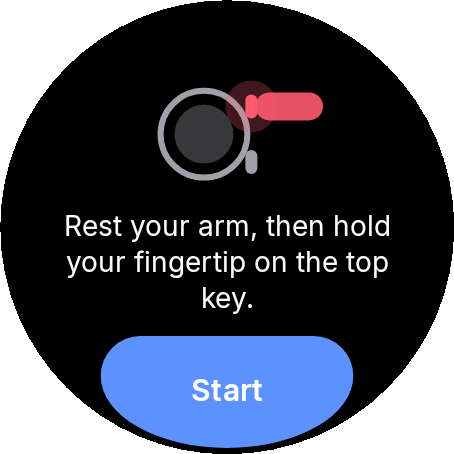
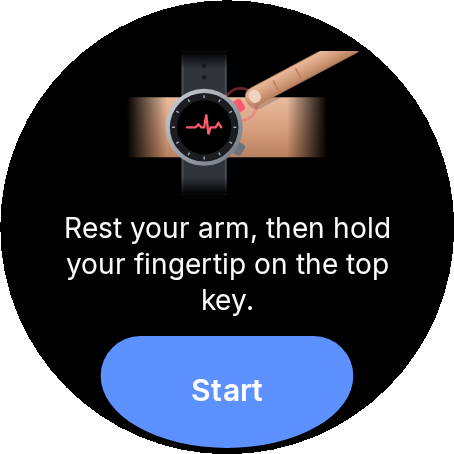
Watch: clear ECG instruction illustration (arm, watch, finger on the top key)
The old drawing was a circle and a red capsule, with no arm and no hand.
EcgKeyIllustration shows the scene from above: the forearm and strap
(fading out at the edges), the watch with steel case, bezel ticks and an
ECG trace on the screen, both side keys with the top one lit, and the
index finger of the other hand (nail, knuckle creases) resting on it
with a contact pulse. Animated: the finger rests, lifts briefly and comes
back. Sized so the instruction text fits on small and large watches.

diff --git a/wear/src/main/kotlin/com/heartline/wear/ui/components/EcgKeyIllustration.kt b/wear/src/main/kotlin/com/heartline/wear/ui/components/EcgKeyIllustration.kt
@@ -1,0 +1,148 @@
+package com.heartline.wear.ui.components
+
+import androidx.compose.animation.core.LinearEasing
+import androidx.compose.animation.core.animateFloat
+import androidx.compose.animation.core.infiniteRepeatable
+import androidx.compose.animation.core.rememberInfiniteTransition
+import androidx.compose.animation.core.tween
+import androidx.compose.foundation.Canvas
+import androidx.compose.runtime.Composable
+import androidx.compose.runtime.getValue
+import androidx.compose.ui.Modifier
+import androidx.compose.ui.geometry.CornerRadius
+import androidx.compose.ui.geometry.Offset
+import androidx.compose.ui.geometry.Size
+import androidx.compose.ui.graphics.Brush
+import androidx.compose.ui.graphics.Color
+import androidx.compose.ui.graphics.Path
+import androidx.compose.ui.graphics.StrokeCap
+import androidx.compose.ui.graphics.drawscope.DrawScope
+import androidx.compose.ui.graphics.drawscope.Stroke
+import androidx.compose.ui.graphics.drawscope.rotate
+import androidx.compose.ui.graphics.drawscope.translate
+import kotlin.math.PI
+import kotlin.math.cos
+import kotlin.math.sin
+
+/**
+ * How to take an ECG, seen from above: the watch on the left wrist and the index finger of the
+ * other hand resting on the top key (2 o'clock), which lights up with a contact pulse. Animated:
+ * the finger rests on the key, lifts off briefly and comes back. Drawn on a 140 × 100 grid.
+ */
+@Composable
+fun EcgKeyIllustration(accent: Color, modifier: Modifier = Modifier, background: Color = Color.Black, animate: Boolean = true) {
+    val t = if (animate) {
+        val transition = rememberInfiniteTransition(label = "ecgKey")
+        val v by transition.animateFloat(0f, 1f, infiniteRepeatable(tween(2_800, easing = LinearEasing)), label = "t")
+        v
+    } else {
+        0.2f
+    }
+    // 0–0.6 on the key (pulses), 0.6–0.75 lifting off, 0.75–1 coming back.
+    val lift = when {
+        t < 0.6f -> 0f
+        t < 0.75f -> (t - 0.6f) / 0.15f
+        else -> 1f - (t - 0.75f) / 0.25f
+    }
+    val onKey = lift < 0.05f
+    val pulse = if (t < 0.6f) t / 0.6f else 0f
+    Canvas(modifier) {
+        val u = minOf(size.width / 140f, size.height / 100f)
+        translate((size.width - 140f * u) / 2, (size.height - 100f * u) / 2) {
+            scene(u, accent, background, lift, onKey, pulse)
+        }
+    }
+}
+
+private val SKIN = Color(0xFFD7A07E)
+private val SKIN_SHADE = Color(0xFFB9805F)
+private val SKIN_LIGHT = Color(0xFFE8BC9E)
+private val NAIL = Color(0xFFF1D3C2)
+private val STRAP = Color(0xFF30343B)
+private val STRAP_EDGE = Color(0xFF474C55)
+private val STEEL = Color(0xFFA7ADB6)
+private val STEEL_DARK = Color(0xFF6E747D)
+private val BEZEL = Color(0xFF1B1D21)
+
+private fun DrawScope.scene(u: Float, accent: Color, background: Color, lift: Float, onKey: Boolean, pulse: Float) {
+    fun p(x: Float, y: Float) = Offset(x * u, y * u)
+
+    // Forearm across the scene, lit from above; it fades out at both sides (it goes on).
+    drawRect(Brush.verticalGradient(listOf(SKIN_LIGHT, SKIN, SKIN_SHADE), startY = 32 * u, endY = 74 * u), p(0f, 32f), Size(140 * u, 42 * u))
+    drawRect(Brush.horizontalGradient(listOf(background, Color.Transparent), startX = 0f, endX = 28 * u), p(0f, 31f), Size(28 * u, 44 * u))
+    drawRect(Brush.horizontalGradient(listOf(Color.Transparent, background), startX = 112 * u, endX = 140 * u), p(112f, 31f), Size(28 * u, 44 * u))
+
+    // Strap over the wrist.
+    val cx = 54f
+    val cy = 53f
+    drawRect(STRAP, p(cx - 16f, 0f), Size(32 * u, 100 * u))
+    drawLine(STRAP_EDGE, p(cx - 15f, 0f), p(cx - 15f, 100f), strokeWidth = 1.2f * u)
+    drawLine(STRAP_EDGE, p(cx + 15f, 0f), p(cx + 15f, 100f), strokeWidth = 1.2f * u)
+    for (y in listOf(10f, 18f)) drawCircle(BEZEL, 1.6f * u, p(cx, y))
+    // The strap fades out too.
+    drawRect(Brush.verticalGradient(listOf(background, Color.Transparent), startY = 0f, endY = 12 * u), p(cx - 17f, 0f), Size(34 * u, 12 * u))
+    drawRect(Brush.verticalGradient(listOf(Color.Transparent, background), startY = 88 * u, endY = 100 * u), p(cx - 17f, 88f), Size(34 * u, 12 * u))
+
+    // Keys on the right side at 2 and 4 o'clock (top one lit while touched).
+    val r = 27f
+    for ((deg, lit) in listOf(-32f to true, 32f to false)) {
+        val a = deg * PI.toFloat() / 180f
+        rotate(deg, pivot = p(cx, cy)) {
+            drawRoundRect(
+                if (lit) accent else STEEL_DARK,
+                topLeft = p(cx + r - 2f, cy - 4.5f),
+                size = Size(7 * u, 9 * u),
+                cornerRadius = CornerRadius(2.5f * u),
+            )
+        }
+        if (lit && onKey) {
+            val key = p(cx + (r + 3f) * cos(a), cy + (r + 3f) * sin(a))
+            drawCircle(accent.copy(alpha = 0.6f * (1 - pulse)), radius = (7f + 13f * pulse) * u, center = key, style = Stroke(2f * u))
+        }
+    }
+
+    // Case, bezel with minute ticks, screen with a small ECG trace.
+    drawCircle(Brush.linearGradient(listOf(Color(0xFFCDD2D9), STEEL_DARK), p(cx - r, cy - r), p(cx + r, cy + r)), r * u, p(cx, cy))
+    drawCircle(BEZEL, (r - 3f) * u, p(cx, cy))
+    for (i in 0 until 12) {
+        val a = i * PI.toFloat() / 6
+        drawLine(
+            STEEL,
+            p(cx + (r - 4.5f) * cos(a), cy + (r - 4.5f) * sin(a)),
+            p(cx + (r - 6.5f) * cos(a), cy + (r - 6.5f) * sin(a)),
+            strokeWidth = 1f * u,
+        )
+    }
+    drawCircle(Color.Black, (r - 8f) * u, p(cx, cy))
+    val trace = Path().apply {
+        val pts = listOf(-12f to 0f, -6f to 0f, -4f to -2f, -2f to 0f, 0f to 0f, 1.5f to -9f, 3f to 5f, 4.5f to 0f, 8f to 0f, 10f to -3f, 12f to 0f)
+        pts.forEachIndexed { i, (x, y) -> if (i == 0) moveTo((cx + x) * u, (cy + y) * u) else lineTo((cx + x) * u, (cy + y) * u) }
+    }
+    drawPath(trace, accent, style = Stroke(1.6f * u, cap = StrokeCap.Round))
+
+    // Index finger of the other hand, from the upper right, tip on the top key.
+    val tipAngle = -32f * PI.toFloat() / 180f
+    val tip = Offset(cx + (r + 9f) * cos(tipAngle), cy + (r + 9f) * sin(tipAngle))
+    val axis = -28f // finger direction from the tip towards the hand, degrees
+    val away = 10f * lift
+    val ax = cos(axis * PI.toFloat() / 180f)
+    val ay = sin(axis * PI.toFloat() / 180f)
+    val base = Offset(tip.x + ax * away, tip.y + ay * away)
+    rotate(axis, pivot = p(base.x, base.y)) {
+        val w = 13f
+        // Shadow under the finger.
+        drawRoundRect(Color.Black.copy(alpha = 0.18f), p(base.x - 1f, base.y - w / 2 + 3f), Size(90 * u, w * u), CornerRadius(w / 2 * u))
+        drawRoundRect(
+            Brush.verticalGradient(listOf(SKIN_LIGHT, SKIN, SKIN_SHADE), startY = (base.y - w / 2) * u, endY = (base.y + w / 2) * u),
+            p(base.x - 1f, base.y - w / 2),
+            Size(90 * u, w * u),
+            CornerRadius(w / 2 * u),
+        )
+        // Nail near the tip, and the two knuckle creases.
+        drawRoundRect(NAIL, p(base.x + 1.5f, base.y - w / 2 + 2f), Size(8 * u, (w - 4f) * u), CornerRadius(3.5f * u))
+        for (d in listOf(22f, 40f)) {
+            drawLine(SKIN_SHADE, p(base.x + d, base.y - w / 2 + 3f), p(base.x + d, base.y + w / 2 - 3f), strokeWidth = 1.1f * u, cap = StrokeCap.Round)
+        }
+        drawRoundRect(SKIN_SHADE.copy(alpha = 0.6f), p(base.x - 1f, base.y - w / 2), Size(90 * u, w * u), CornerRadius(w / 2 * u), style = Stroke(0.8f * u))
+    }
+}

diff --git a/wear/src/main/kotlin/com/heartline/wear/ui/screens/EcgScreens.kt b/wear/src/main/kotlin/com/heartline/wear/ui/screens/EcgScreens.kt
@@ -46,6 +46,7 @@ import com.heartline.shared.model.EcgResult
 import com.heartline.shared.model.Severity
 import com.heartline.wear.R
 import com.heartline.wear.ui.components.ActionScreen
+import com.heartline.wear.ui.components.EcgKeyIllustration
 import com.heartline.wear.ui.components.LiveWave
 import com.heartline.wear.ui.components.SweepTrace
 import com.heartline.wear.ui.components.isSmallRound
@@ -54,47 +55,21 @@ import com.heartline.wear.ui.theme.WearColors
 
 /** Step 1: how to hold the watch, with an original illustration of a finger on the top key. */
 @Composable
-fun EcgInstructionScreen(onStart: () -> Unit = {}) {
+fun EcgInstructionScreen(onStart: () -> Unit = {}, animate: Boolean = true) {
     ActionScreen(stringResource(R.string.action_start), onStart) {
         val small = isSmallRound()
-        WatchKeyIllustration(if (small) Modifier.size(width = 80.dp, height = 56.dp) else Modifier.size(width = 96.dp, height = 70.dp))
+        EcgKeyIllustration(
+            WearColors.ecg,
+            if (small) Modifier.size(width = 84.dp, height = 60.dp) else Modifier.size(width = 100.dp, height = 72.dp),
+            background = WearColors.background,
+            animate = animate,
+        )
         Text(
             stringResource(R.string.ecg_instruction),
             style = if (small) MaterialTheme.typography.bodySmall else MaterialTheme.typography.bodyMedium,
             textAlign = TextAlign.Center,
             modifier = Modifier.padding(top = 6.dp),
         )
-    }
-}
-
-@Composable
-private fun WatchKeyIllustration(modifier: Modifier) {
-    val ecg = WearColors.ecg
-    val outline = WearColors.onSurfaceVariant
-    Canvas(modifier) {
-        val body = size.height * 0.62f
-        val cx = size.width * 0.38f
-        val cy = size.height * 0.58f
-        // Watch case and bezel.
-        drawCircle(outline, radius = body / 2, center = Offset(cx, cy), style = Stroke(width = 3.dp.toPx()))
-        drawCircle(outline.copy(alpha = 0.35f), radius = body / 2 - 7.dp.toPx(), center = Offset(cx, cy))
-        // Top and bottom keys on the right side.
-        val keyW = 6.dp.toPx()
-        val keyH = 12.dp.toPx()
-        val keyX = cx + body / 2 - 1.dp.toPx()
-        drawRoundRect(ecg, Offset(keyX, cy - body * 0.32f - keyH / 2), Size(keyW, keyH), CornerRadius(3.dp.toPx()))
-        drawRoundRect(outline, Offset(keyX, cy + body * 0.32f - keyH / 2), Size(keyW, keyH), CornerRadius(3.dp.toPx()))
-        // Fingertip pressing the top key from the right.
-        val keyY = cy - body * 0.32f
-        val fingerH = 14.dp.toPx()
-        drawRoundRect(
-            ecg.copy(alpha = 0.9f),
-            Offset(keyX + keyW - 1.dp.toPx(), keyY - fingerH / 2),
-            Size(size.width - keyX - keyW + 1.dp.toPx(), fingerH),
-            CornerRadius(fingerH / 2),
-        )
-        // Contact pulse.
-        drawCircle(ecg.copy(alpha = 0.25f), radius = 13.dp.toPx(), center = Offset(keyX + keyW / 2, keyY))
     }
 }
 

diff --git a/wear/src/test/kotlin/com/heartline/wear/WearScreenshotTest.kt b/wear/src/test/kotlin/com/heartline/wear/WearScreenshotTest.kt
@@ -82,7 +82,7 @@ class WearScreenshotTest(private val size: String) {
 
     @Test fun launcher() = shot("launcher") { LauncherScreen(WearSample.launcher) }
 
-    @Test fun ecgInstruction() = shot("ecg_instruction") { EcgInstructionScreen() }
+    @Test fun ecgInstruction() = shot("ecg_instruction") { EcgInstructionScreen(animate = false) }
 
     @Test fun ecgMeasuring() = shot("ecg_measuring") {
         EcgMeasuringScreen(0.4f, 18, WearSample.liveEcg, leadOff = false, bpm = 72, endIndex = 1500L * 3 + 900)
